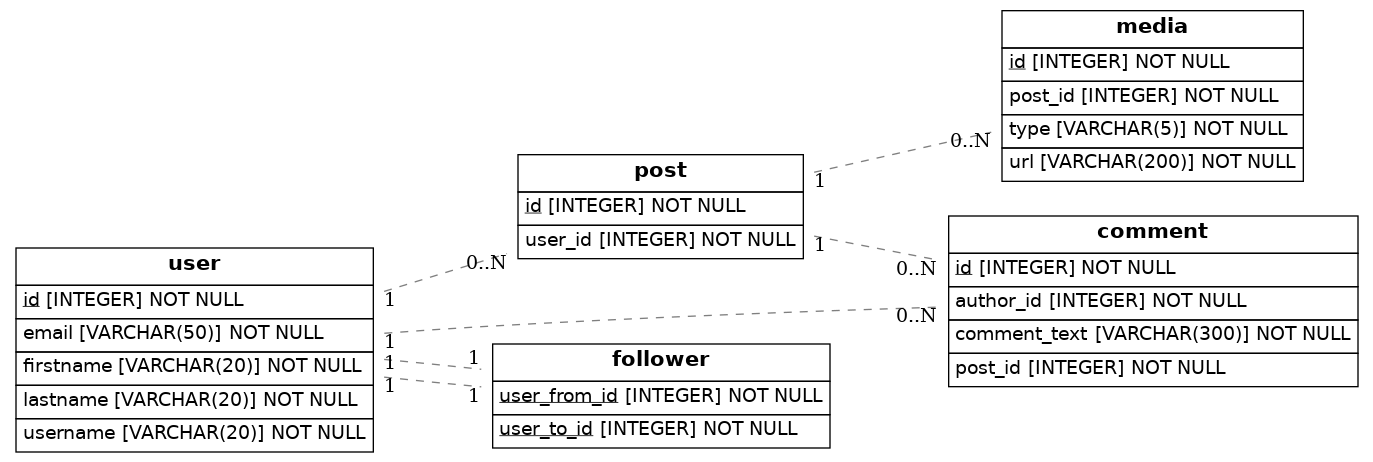
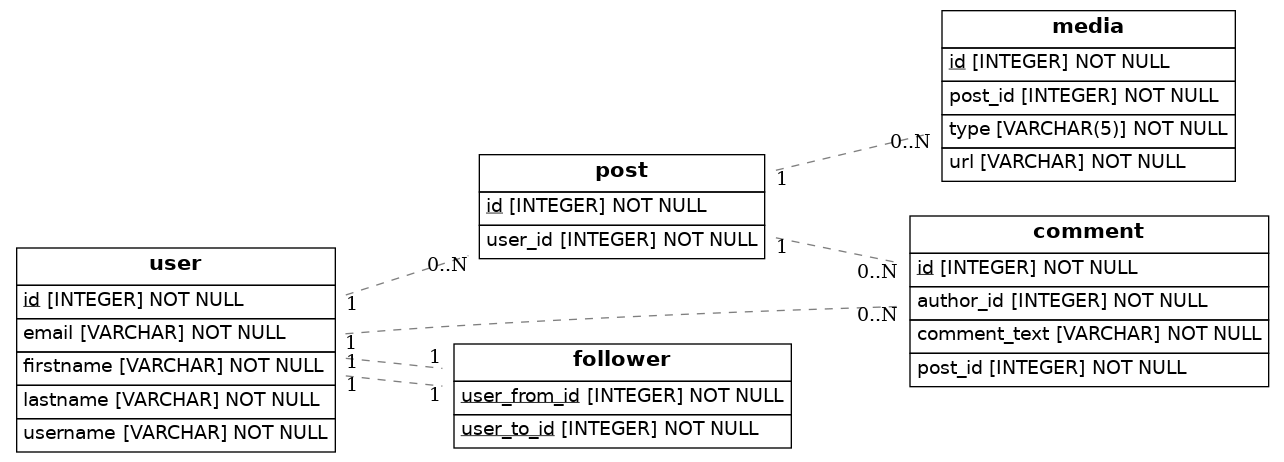
corregida relacion erronea

diff --git a/src/models.py b/src/models.py
@@ -15,12 +15,12 @@ class MediaType(enum.Enum):
 class User(Base):
     __tablename__ = 'user'
     id = Column(Integer, primary_key=True)
-    username = Column(String(20), unique=True, nullable=False)
-    firstname = Column(String(20), unique=False, nullable=False)
-    lastname = Column(String(20), unique=False, nullable=False)
-    email = Column(String(50), unique=True, nullable=False)
+    username = Column(String, unique=True, nullable=False)
+    firstname = Column(String, nullable=False)
+    lastname = Column(String, nullable=False)
+    email = Column(String, unique=True, nullable=False)
 
-    #relationships
+    # relationship
     post = relationship('Post', backref='user')
     comments = relationship('Comment', backref='author')
 
@@ -28,43 +28,42 @@ class Media(Base):
     __tablename__ = 'media'
     id = Column(Integer, primary_key=True)
     type = Column(Enum(MediaType), nullable=False)
-    url = Column(String(200), nullable=False)
-    post_id = Column(Integer, ForeignKey('post.id'),nullable=False)
+    url = Column(String, nullable=False)
+    post_id = Column(Integer, ForeignKey('post.id'), nullable=False)
 
-    # Relationships
+    # relationship
     post = relationship('Post', backref='media')
-
 
 class Post(Base):
     __tablename__ = 'post'
     id = Column(Integer, primary_key=True)
     user_id = Column(Integer, ForeignKey('user.id'), nullable=False)
 
+    # relationship
+    comments = relationship('Comment', backref='post')
+    media = relationship('Media', backref='post')
+
 class Comment(Base):
     __tablename__ = 'comment'
     id = Column(Integer, primary_key=True)
-    comment_text = Column(String(300), nullable=False)
+    comment_text = Column(String, nullable=False)
     author_id = Column(Integer, ForeignKey('user.id'), nullable=False)
     post_id = Column(Integer, ForeignKey('post.id'), nullable=False)
-  
+
+    # relationship
 
 class Follower(Base):
     __tablename__ = 'follower'
-
     user_from_id = Column(Integer, ForeignKey('user.id'), primary_key=True)
     user_to_id = Column(Integer, ForeignKey('user.id'), primary_key=True)
     
-    # relationships
-    user_from = relationship('user', foreign_keys=[user_from_id], backref='following')
-    user_to = relationship('user', foreign_keys=[user_to_id], backref='followers')
+    # relationship
+    user_from = relationship('User', foreign_keys=[user_from_id], backref='following')
+    user_to = relationship('User', foreign_keys=[user_to_id], backref='followers')
 
-    def to_dict(self):
-        return {}
-
-## Draw from SQLAlchemy base
 try:
     result = render_er(Base, 'diagram.png')
     print("Success! Check the diagram.png file")
 except Exception as e:
-    print("There was a problem genering the diagram")
+    print("There was a problem generating the diagram")
     raise e
